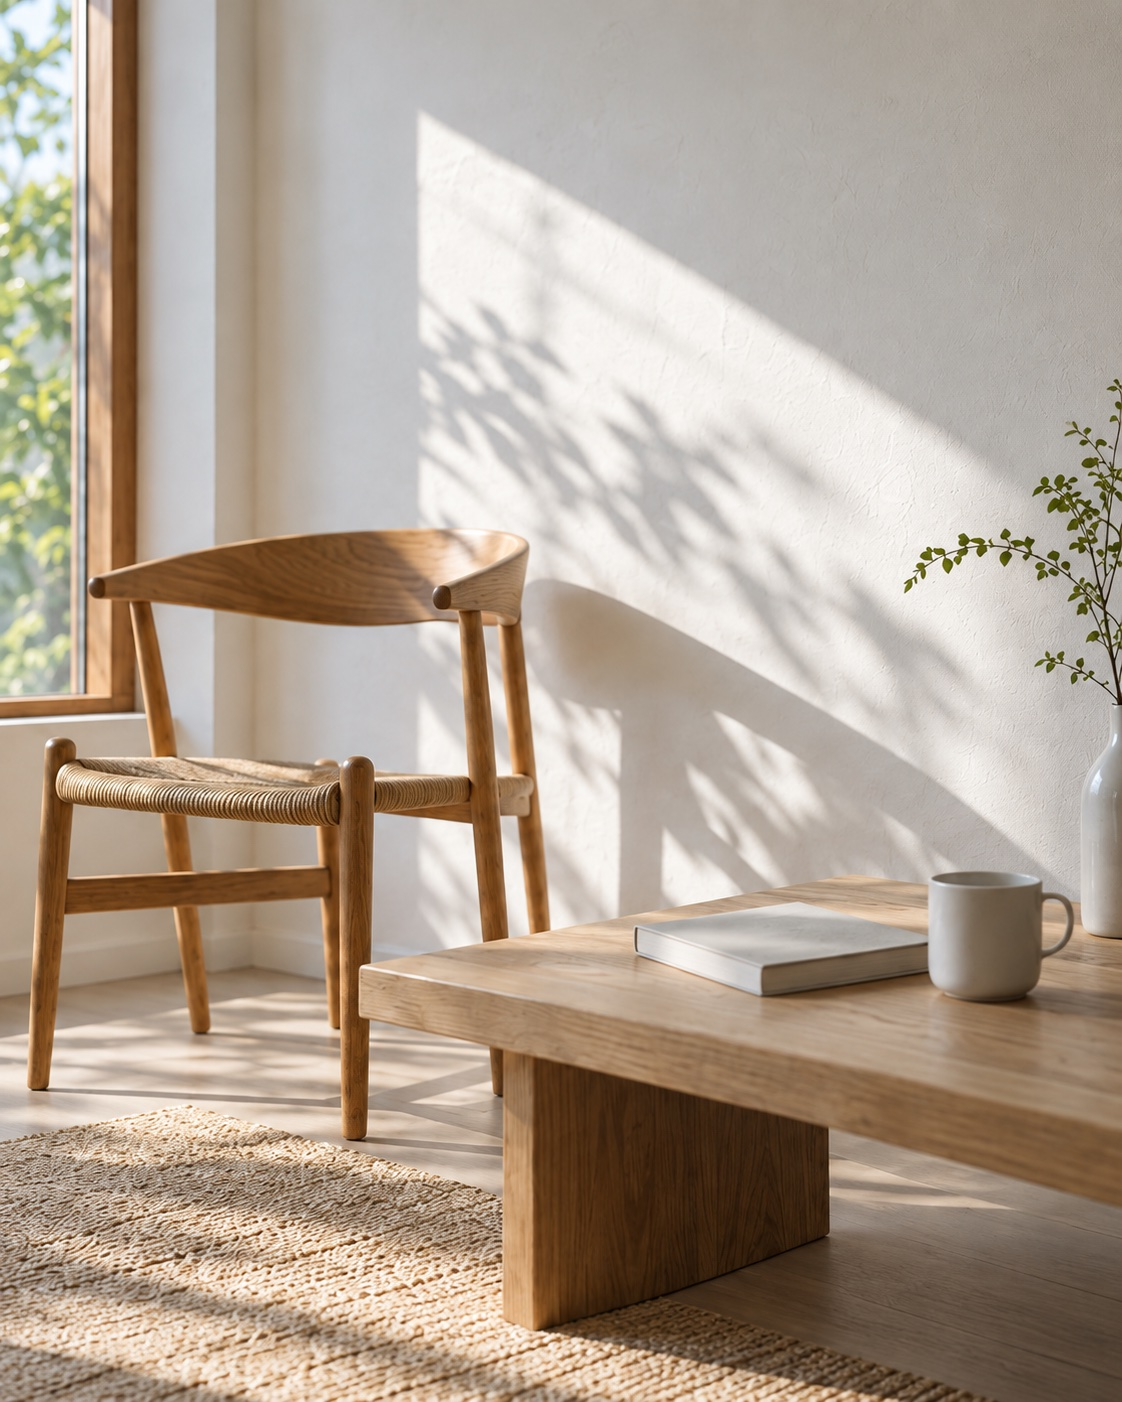
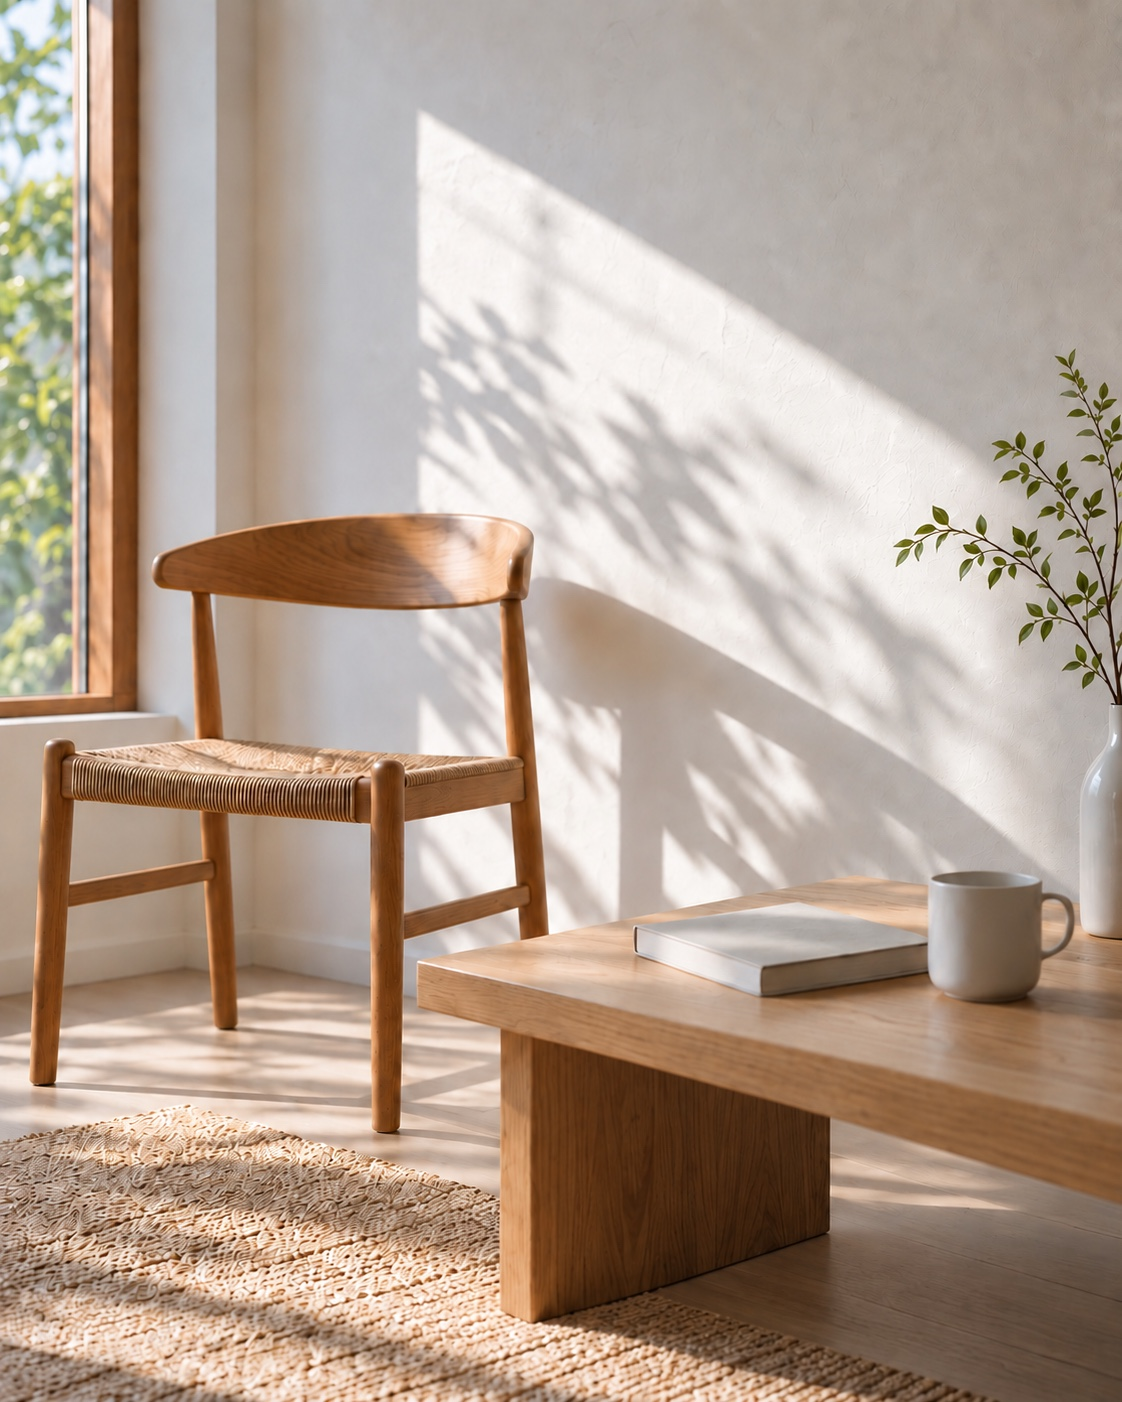
Correct chair construction and foliage in hero image

diff --git a/index.html b/index.html
@@ -58,7 +58,7 @@
           </a>
         </div>
         <figure class="hero-photo">
-          <img src="./assets/minimalism-quiet-living.jpg"
+          <img src="./assets/minimalism-quiet-living.jpg?v=20261003-furniture"
             alt="自然光が差し込む静かな空間に、木の椅子と本、白いカップを置いた小さなテーブル"
             width="1122" height="1402" fetchpriority="high" />
         </figure>
@@ -85,7 +85,7 @@
             </div>
             <div class="blog-articles" aria-label="暮らしを整えるの記事">
               <article class="article-card">
-                <div class="article-image"><img src="./assets/minimalism-quiet-living.jpg" alt="自然光が差し込む、椅子と小さなテーブルのある空間" loading="lazy" width="1536" height="1024" /></div>
+                <div class="article-image"><img src="./assets/minimalism-quiet-living.jpg?v=20261003-furniture" alt="自然光が差し込む、椅子と小さなテーブルのある空間" loading="lazy" width="1122" height="1402" /></div>
 
                 <h4><a href="./articles/one-small-space.html">片づけは、ひとつの小さな場所から。</a></h4>
                 <p>部屋全体を変えようとせず、机の一角から。片づけと小さな習慣をつなぐ、最初の一歩。</p>
